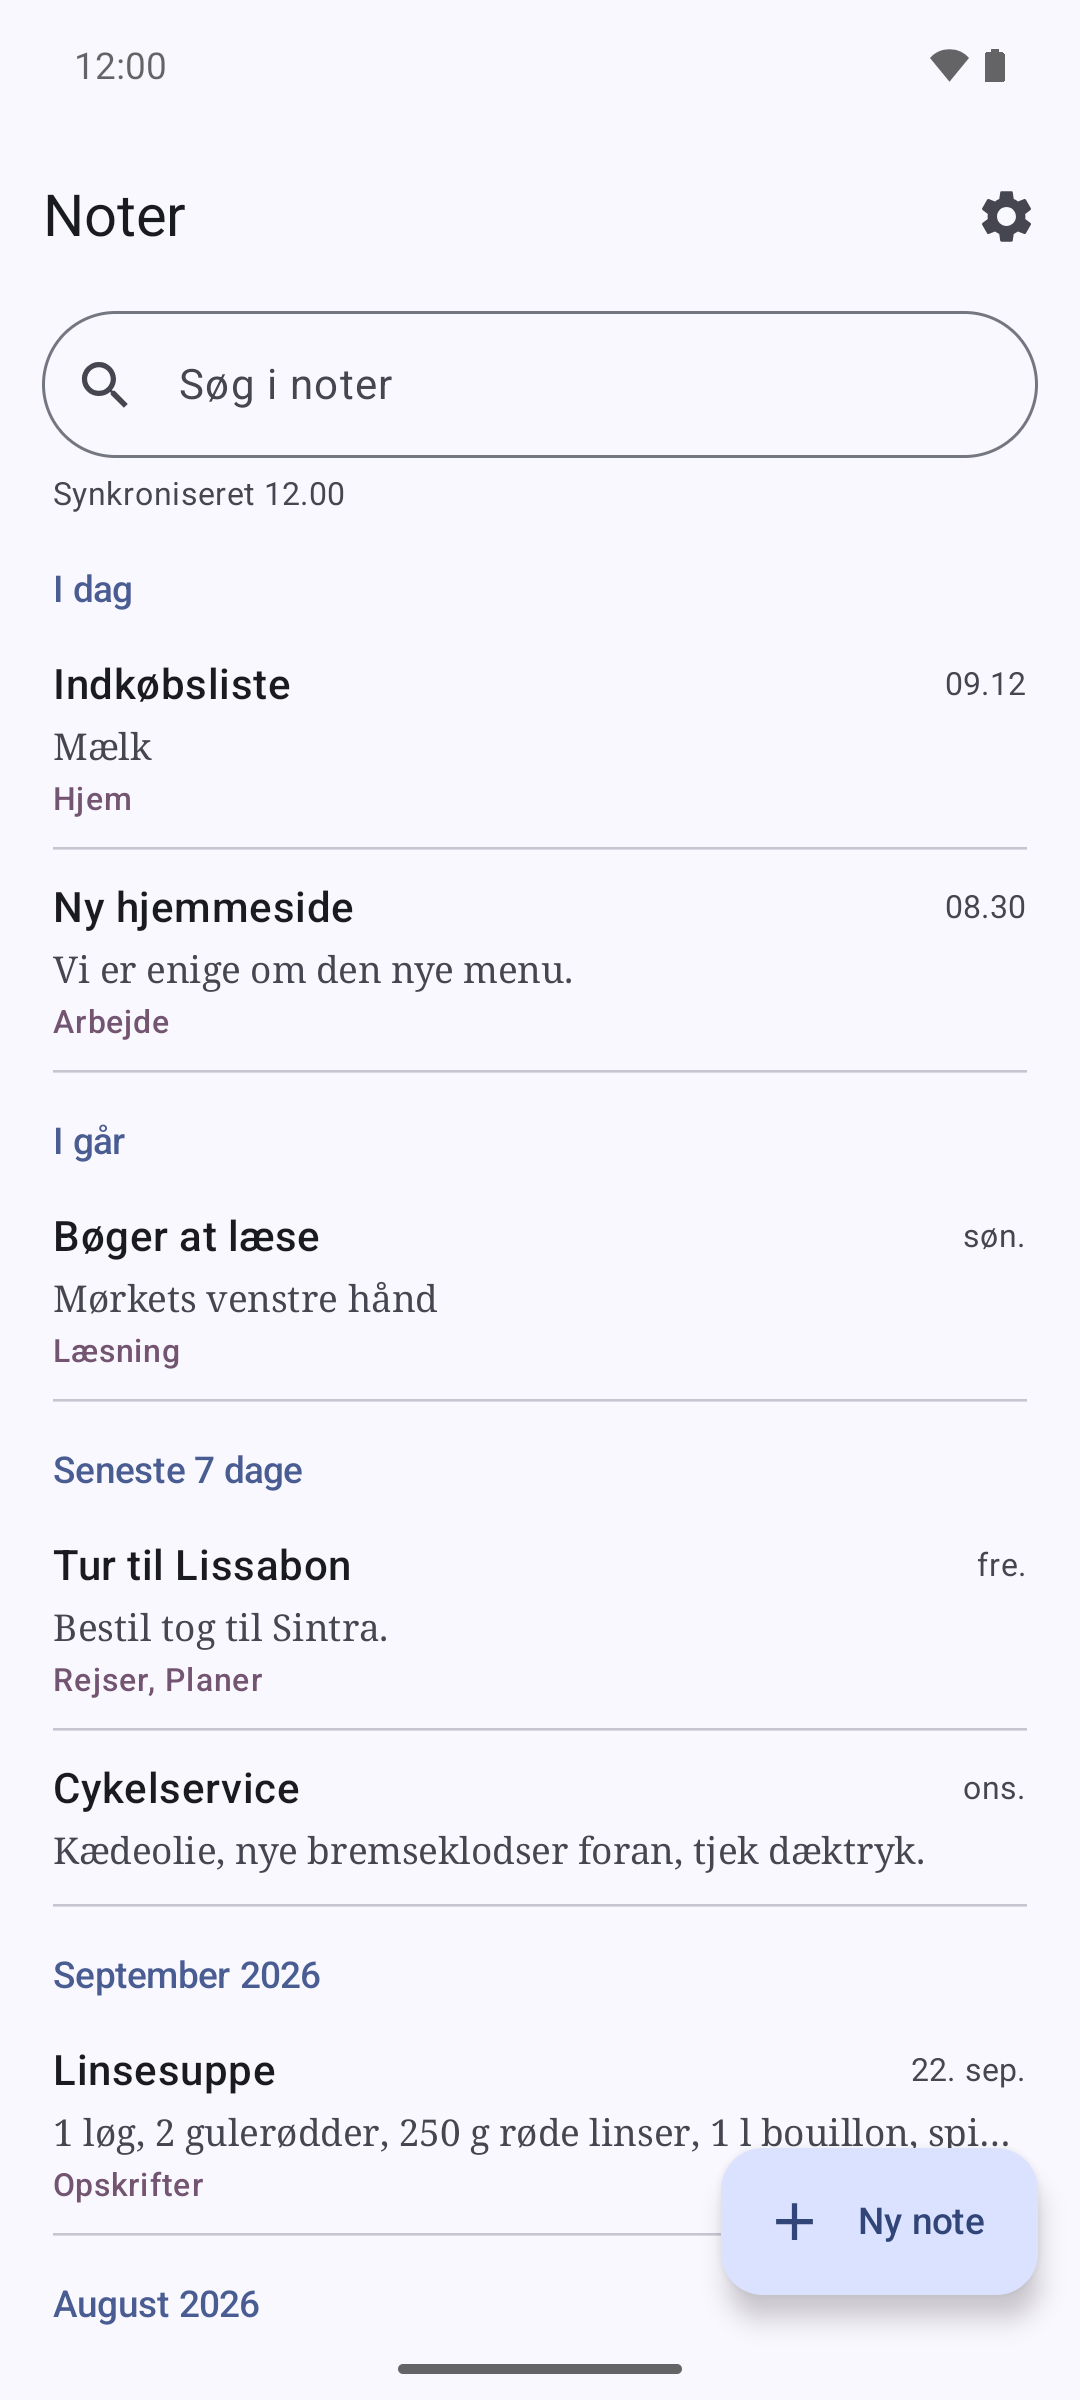
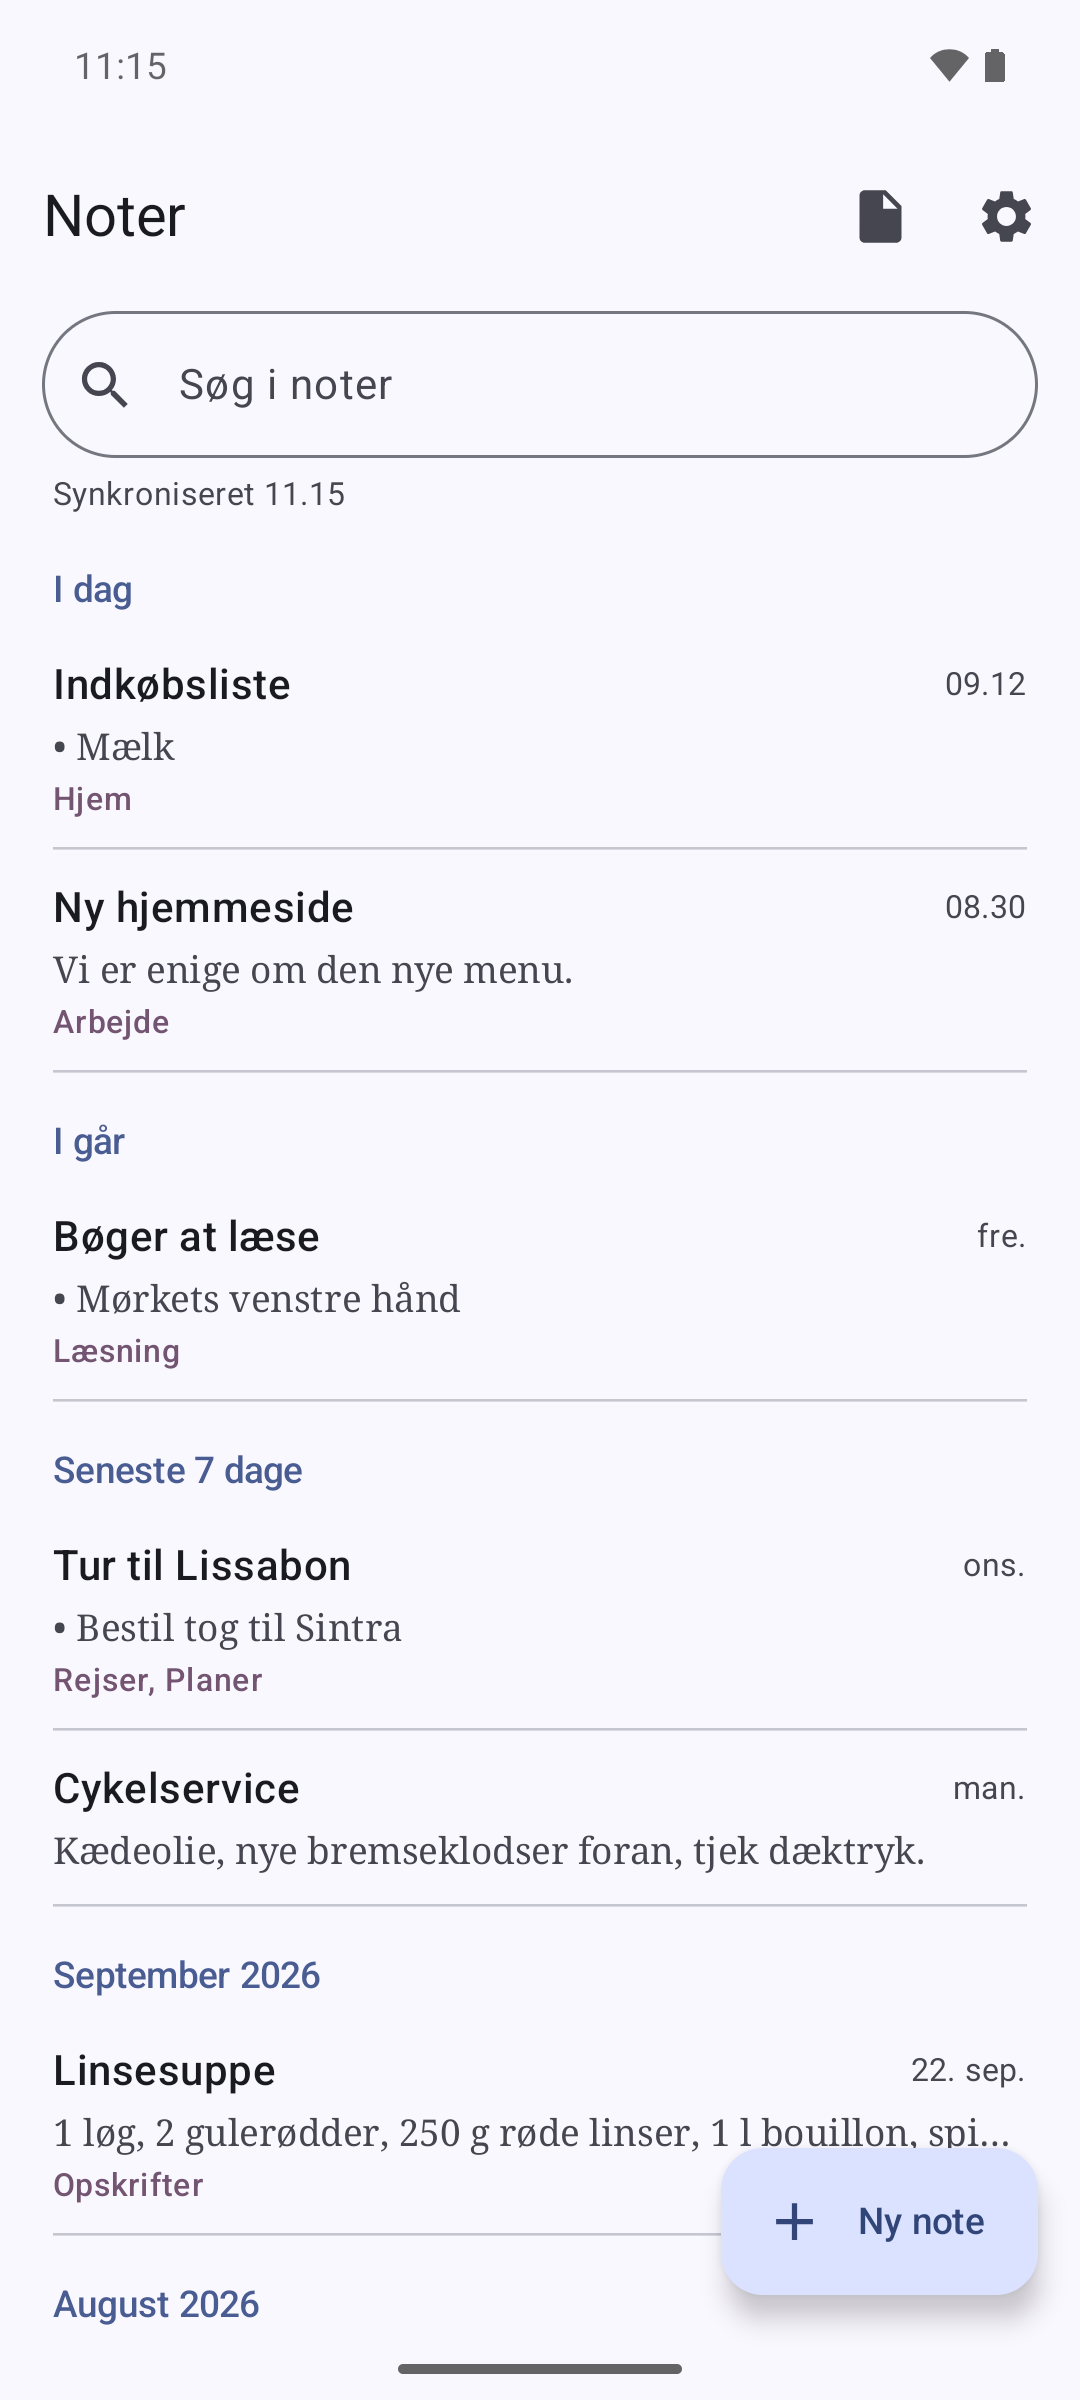
Skærmbilleder til 1.2 og script til demodata
Nye skærmbilleder 1-4 på dansk og engelsk: listen med formateret
forhåndsvisning, editoren med værktøjslinje og Åbn link, søgning og
mørkt tema. Indstillingerne (5) er uændrede. tools/demo_notes.py lægger
demodata på en lokal Radicale; fremgangsmåden står i docs/RELEASE.md.

diff --git a/tools/demo_notes.py b/tools/demo_notes.py
@@ -1,0 +1,81 @@
+#!/usr/bin/env python3
+"""Demodata til butikkens skærmbilleder: danske og engelske noter i samlingerne noter-da og noter-en
+på en lokal Radicale (testserveren fra afsnittet "Test" i docs/SPEC.md). Fremgangsmåden står i docs/RELEASE.md.
+
+Brug:  python3 -B tools/demo_notes.py <server-url> <bruger> <adgangskode>
+Datoerne regnes fra i dag, så listen får grupperne I dag, I går, Seneste 7 dage, september og august.
+"""
+import sys
+import uuid
+from datetime import datetime, timedelta, timezone
+from pathlib import Path
+
+sys.path.insert(0, str(Path(__file__).resolve().parent.parent / "reference"))
+import notesync  # noqa: E402
+
+if len(sys.argv) != 4:
+    sys.exit(__doc__)
+base, user, password = sys.argv[1].rstrip("/"), sys.argv[2], sys.argv[3]
+today = datetime.now(timezone.utc).date()
+
+
+def stamp(days_ago, hhmm_utc):
+    d = today - timedelta(days=days_ago)
+    return f"{d:%Y%m%d}T{hhmm_utc}00Z"
+
+
+LISBON_DA = """- Bestil tog til **Sintra**
+- Smag *pastéis de nata* i Belém
+- Sporvogn 28 tidligt om morgenen
+
+## Praktisk
+1. Køb et *Viva Viagem*-kort
+2. Køreplan: https://www.cp.pt"""
+
+LISBON_EN = """- Book the train to **Sintra**
+- Try *pastéis de nata* in Belém
+- Tram 28 early in the morning
+
+## Practical
+1. Get a *Viva Viagem* card
+2. Timetable: https://www.cp.pt"""
+
+DATA = {
+    "noter-da": [
+        ("Indkøbsliste", "- Mælk\n- Rugbrød\n- Kaffe\n- Æbler\n- Havregryn", ["Hjem"], stamp(0, "0712")),
+        ("Ny hjemmeside", "Vi er enige om den nye menu.\n\n**Næste skridt:**\n1. Tekst til Om os-siden\n2. Test på telefoner",
+         ["Arbejde"], stamp(0, "0630")),
+        ("Bøger at læse", "- *Mørkets venstre hånd*\n- *Piranesi*\n- *De besiddelsesløse*", ["Læsning"], stamp(1, "1845")),
+        ("Tur til Lissabon", LISBON_DA, ["Rejser", "Planer"], stamp(3, "1605")),
+        ("Cykelservice", "Kædeolie, nye bremseklodser foran, tjek dæktryk.", [], stamp(5, "0550")),
+        ("Linsesuppe", "1 løg, 2 gulerødder, 250 g røde linser, 1 l bouillon, spidskommen.\nSimrer i 25 minutter og blendes.",
+         ["Opskrifter"], "20260922T150000Z"),
+        ("Idéer til haven", "Højbed ved hegnet.\nFlere krydderurter: timian, salvie, purløg.", ["Hjem", "Have"],
+         "20260821T100000Z"),
+    ],
+    "noter-en": [
+        ("Grocery list", "- Milk\n- Rye bread\n- Coffee\n- Apples\n- Oats", ["Home"], stamp(0, "0712")),
+        ("Website relaunch", "Agreed on the new navigation.\n\n**Next steps:**\n1. Copy for the About page\n2. Test on phones",
+         ["Work"], stamp(0, "0630")),
+        ("Book recommendations", "- *The Left Hand of Darkness*\n- *Piranesi*\n- *The Dispossessed*", ["Reading"],
+         stamp(1, "1845")),
+        ("Trip to Lisbon", LISBON_EN, ["Travel", "Plans"], stamp(3, "1605")),
+        ("Bike maintenance", "Chain oil, brake pads at the front, check tyre pressure.", [], stamp(5, "0550")),
+        ("Lentil soup", "1 onion, 2 carrots, 250 g red lentils, 1 l stock, cumin.\nSimmer for 25 minutes and blend.",
+         ["Recipes"], "20260922T150000Z"),
+        ("Ideas for the garden", "Raised bed by the fence.\nMore herbs: thyme, sage, chives.", ["Home", "Garden"],
+         "20260821T100000Z"),
+    ],
+}
+
+for coll, notes in DATA.items():
+    client = notesync.DavClient(f"{base}/{user}/{coll}/", user, password)
+    client.mkcalendar(coll)
+    for title, body, tags, ts in notes:
+        uid = str(uuid.uuid4())
+        raw = notesync.new_ics(uid, title, body, tags)
+        for prop in ("DTSTAMP", "CREATED", "LAST-MODIFIED"):
+            raw = "\r\n".join(f"{prop}:{ts}" if line.startswith(prop + ":") else line for line in raw.split("\r\n"))
+        assert notesync.parse_ics(raw).body == body
+        client.put(f"/{user}/{coll}/{uid}.ics", raw, None)
+    print(coll, len(notes))

diff --git a/docs/RELEASE.md b/docs/RELEASE.md
@@ -28,6 +28,40 @@ Brugere kan derfor skifte frit mellem GitHub og F-Droid. Det kræver, at de to b
 F-Droid opdager nye tags af sig selv (`UpdateCheckMode: Tags`) og bygger den nye version. Der går typisk
 nogle dage, før den er ude.
 
+## Skærmbilleder
+
+`fastlane/metadata/android/{da-DK,en-US}/images/phoneScreenshots/`, 1080 × 2400: 1 listen, 2 Tur til Lissabon
+i editoren med tastatur og værktøjslinje (markøren i linket, så "Åbn link" vises), 3 søgning ("hjem"/"home"),
+4 listen i mørkt tema, 5 indstillingerne.
+
+1. Start testserveren fra afsnittet "Test" i `docs/SPEC.md`, og læg demodata ind:
+   `python3 -B tools/demo_notes.py http://127.0.0.1:5232 <bruger> <adgangskode>`
+   (samlingerne `noter-da` og `noter-en`; datoerne regnes fra i dag).
+2. Emulator (1080 × 2400, fx AVD'en `davnotes_shots`) med debug-bygget: samling
+   `http://10.0.2.2:5232/<bruger>/noter-da/`. Appens sprog: `adb shell cmd locale set-app-locales
+   dk.rpix.noter.debug --locales da-DK`.
+3. Rolig statuslinje (demotilstand):
+
+   ```
+   adb shell settings put global sysui_demo_allowed 1
+   adb shell am broadcast -a com.android.systemui.demo -e command enter
+   adb shell am broadcast -a com.android.systemui.demo -e command clock -e hhmm 1115
+   adb shell am broadcast -a com.android.systemui.demo -e command battery -e level 100 -e plugged false
+   adb shell am broadcast -a com.android.systemui.demo -e command network -e wifi show -e level 4 -e fully true -e mobile hide
+   adb shell am broadcast -a com.android.systemui.demo -e command notifications -e visible false
+   ```
+
+   Sæt uret til samme tid som "Synkroniseret" i appen (hver sync opdaterer den).
+   Mørkt tema: `adb shell cmd uimode night yes`. Skærmbillede: `adb exec-out screencap -p > 1.png`.
+4. Markørens greb i editoren forsvinder, når man taster: skriv et tegn og slet det igen.
+5. Engelsk: stop serveren, byt mapperne `noter-da` og `noter-en` i `collections/collection-root/<bruger>/`,
+   start serveren igen, og sæt appens sprog til `en-US`. Appen laver en fuld sync og viser de engelske noter.
+6. Bagefter: `cmd uimode night no`, demotilstand `-e command exit`.
+
+En langsom emulator kan vise "System UI isn't responding". Kan dialogen ikke lukkes med et tryk:
+`adb shell am broadcast -a android.intent.action.CLOSE_SYSTEM_DIALOGS` (evt. midlertidigt
+`adb shell settings put global hide_error_dialogs 1`, og `0` bagefter).
+
 ## Første indsendelse til F-Droid
 
 1. Lav version 1.1 som ovenfor (tag `v1.1` og `davnotes-1.1.apk` på GitHub).
